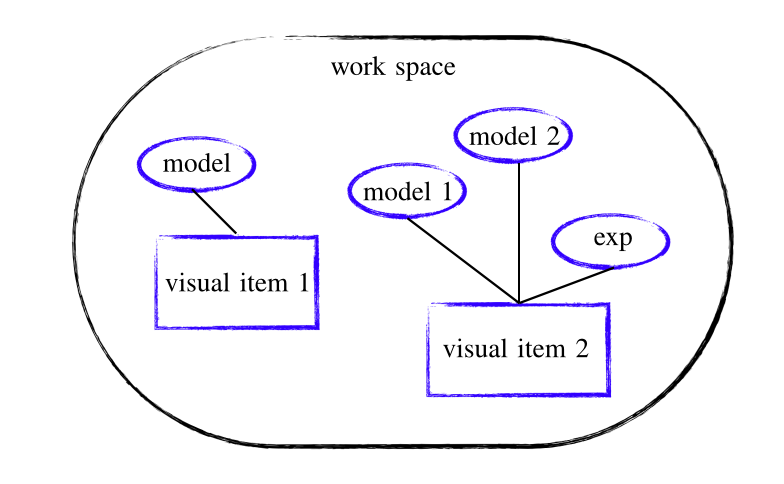
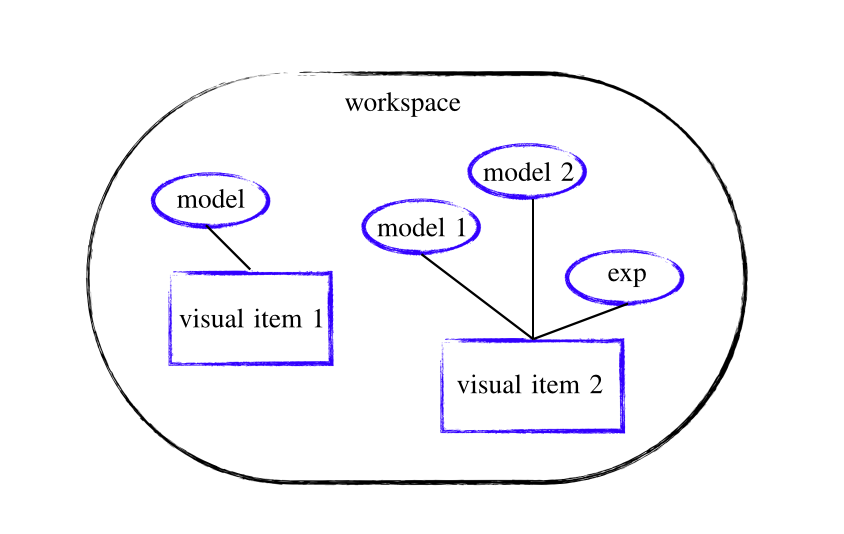
--

diff --git a/docs/source/quickstart/index.md b/docs/source/quickstart/index.md
@@ -8,7 +8,7 @@ First things first
 import phlab
 ```
 
-Now let's create our work space which is a wrapper for all the experiments and models:
+Now let's create our workspace, which is a wrapper for all the experiments and models:
 
 
 ```python
@@ -31,7 +31,7 @@ model = workspace.model_single_osc(name = '1d')
     number of models : 1
 
 
-Input is by default reading from `./model_name/_inputs/input_model_{nm}.json` and is an attribute of the model
+Input by default is reading from `./model_name/_inputs/input_model_{nm}.json` and is an attribute of the model
 
 
 ```python
@@ -57,7 +57,7 @@ model.input
 
 
 
-If you wish to alter the input inside your code just call the parameter your want to overwrite. (Note: input file will be overwritten when you will execute the model `model.run()`)
+If you wish to alter the input inside your code, call the parameter you want to overwrite. (Note: when you will execute the model  `model.run()` the input file will be overwritten)
 
 
 ```python
@@ -70,14 +70,14 @@ model.color = 'r'
 model.run()
 ```
 
-Now let's create the experiment. At the very least you have to specify the  path to file  with exp data.
+If you want to add an experiment, you have to specify the path to file with experimental data.
 
 
 ```python
 exp = workspace.experiment(file = 'test_data.csv', name= ' test')
 ```
 
-To visualize everything you can create vitem and list the models and experiment objects that you would like to compare. Feel free to use matplotlib library's methods to customize resulting figure.
+To visualize everything you can create vitem and list all models and experiment objects that you would like to compare. Feel free to use matplotlib library's methods to customize resulting figure.
 
 
 ```python

diff --git a/docs/source/sketch.md b/docs/source/sketch.md
@@ -1,5 +1,5 @@
 Concept sketch
 ===========
 
-![]('sketch.png')
-Simple sketch to visualize different objects for the package. Briefly, within your 'work space '  you can create various combinations of models and experiments and  use visual method to show results.
+![](sketch.png)
+Simple sketch to visualize different objects of the package. Briefly, within your 'workspace'  you can create various combinations of models and experiments and use the visual method to show results.
